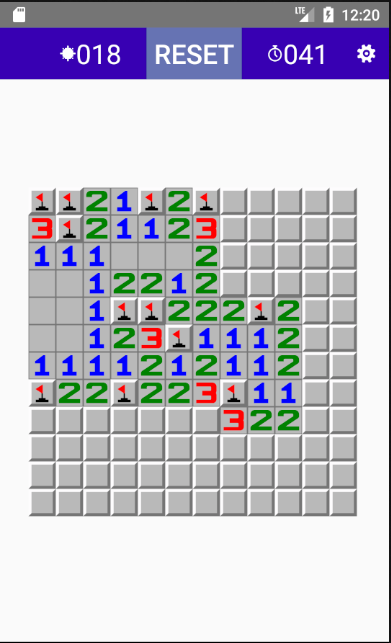
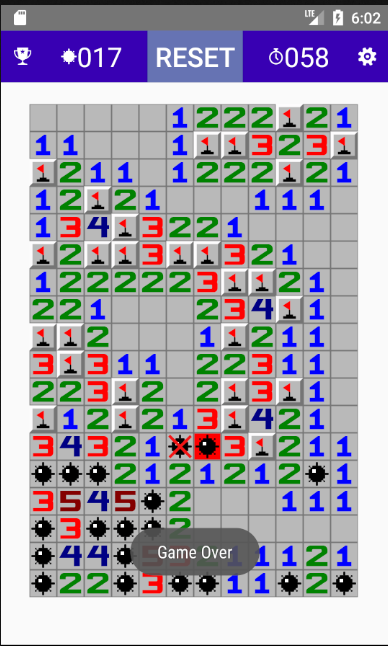
add high scores

diff --git a/app/src/main/java/com/github/mlee0967/minesweeper/MainActivity.java b/app/src/main/java/com/github/mlee0967/minesweeper/MainActivity.java
@@ -3,7 +3,9 @@ package com.github.mlee0967.minesweeper;
 import androidx.appcompat.app.AppCompatActivity;
 
 import android.app.AlertDialog;
+import android.content.Context;
 import android.content.DialogInterface;
+import android.content.SharedPreferences;
 import android.os.Bundle;
 import android.view.View;
 import android.widget.Button;
@@ -13,6 +15,9 @@ import com.github.mlee0967.minesweeper.game.views.Board;
 import com.github.mlee0967.minesweeper.game.Difficulty;
 import com.github.mlee0967.minesweeper.game.Game;
 import com.github.mlee0967.minesweeper.utils.Timer;
+
+import java.util.ArrayList;
+import java.util.List;
 
 public class MainActivity extends AppCompatActivity {
     @Override
@@ -35,6 +40,12 @@ public class MainActivity extends AppCompatActivity {
                 showDifficultySettingDialog();
             }
         });
+        recordButton = (Button) findViewById(R.id.recordButton);
+        recordButton.setOnClickListener(new View.OnClickListener() {
+            public void onClick(View v) {
+                showRecordDialog();
+            }
+        });
 
         Game.getInstance().initGame(this, minesLeftView);
         startGame();
@@ -50,11 +61,12 @@ public class MainActivity extends AppCompatActivity {
     }
 
     private void showDifficultySettingDialog(){
-        final String[] listItems = getResources().getStringArray(R.array.difficulty);
-
+        List<String> difficulties = new ArrayList<>();
+        for (Difficulty difficulty : Difficulty.values())
+            difficulties.add(difficulty.toString());
+        final String[] listItems = difficulties.toArray(new String[difficulties.size()]);
         AlertDialog.Builder builder = new AlertDialog.Builder(MainActivity.this);
         builder.setTitle("Choose difficulty");
-
         builder.setItems(listItems, new DialogInterface.OnClickListener() {
             @Override
             public void onClick(DialogInterface dialog, int idx) {
@@ -71,13 +83,40 @@ public class MainActivity extends AppCompatActivity {
             startGame();
             }
         });
+        builder.create().show();
+    }
 
-        AlertDialog dialog = builder.create();
-        dialog.show();
+    private void showRecordDialog(){
+        SharedPreferences prefs = getSharedPreferences(
+                getResources().getString(R.string.app_name), Context.MODE_PRIVATE);
+        StringBuilder sb = new StringBuilder();
+        for (Difficulty difficulty : Difficulty.values()){
+            sb.append(difficulty.toString());
+            sb.append(" : ");
+            int record = prefs.getInt(difficulty.toString(), -1);
+            if(record==-1)
+                sb.append("---");
+            else
+                sb.append(record);
+            sb.append("\n\n");
+        }
+
+        AlertDialog.Builder builder = new AlertDialog.Builder(MainActivity.this);
+        builder.setTitle("Records");
+        builder.setMessage(sb.toString());
+        builder.setCancelable(true);
+        builder.setNeutralButton("OK",
+                new DialogInterface.OnClickListener() {
+                    public void onClick(DialogInterface dialog, int id) {
+                        dialog.cancel();
+                    }
+                });
+        builder.create().show();
     }
 
     private TextView minesLeftView;
     private TextView timerView;
+    private Button recordButton;
     private Button resetButton;
     private Button settingButton;
     private Board boardView;

diff --git a/app/src/main/java/com/github/mlee0967/minesweeper/game/Game.java b/app/src/main/java/com/github/mlee0967/minesweeper/game/Game.java
@@ -1,11 +1,13 @@
 package com.github.mlee0967.minesweeper.game;
 
 import android.content.Context;
+import android.content.SharedPreferences;
 import android.widget.TextView;
 import android.widget.Toast;
 
 import com.github.mlee0967.minesweeper.utils.Timer;
 import com.github.mlee0967.minesweeper.game.views.Cell;
+import com.github.mlee0967.minesweeper.R;
 
 import java.util.Random;
 
@@ -41,12 +43,12 @@ public class Game {
             case INTERMEDIATE:
                 width = 12;
                 height = 12;
-                mines = 30;
+                mines = 22;
                 break;
             case EXPERT:
                 width = 12;
                 height = 18;
-                mines = 60;
+                mines = 45;
         }
     }
 
@@ -135,17 +137,33 @@ public class Game {
     private void endGame(boolean won){
         timer.cancel();
         gameOver = true;
-
-        if(won)
-            Toast.makeText(context,"Game Won", Toast.LENGTH_SHORT).show();
-        else
-            Toast.makeText(context,"Game lost", Toast.LENGTH_SHORT).show();
-
-        for(int r=0; r<height; ++r){
-            for(int c=0; c<width; ++c){
-                board[r][c].setRevealed();
+        if(won) {
+            Toast.makeText(context, "Game Won", Toast.LENGTH_SHORT).show();
+            if(updateBestTime())
+                Toast.makeText(context,
+                        "Congratulations!\nYou set a new record!",
+                        Toast.LENGTH_SHORT).show();
+        }else {
+            Toast.makeText(context, "Game Over", Toast.LENGTH_SHORT).show();
+            for(int r=0; r<height; ++r){
+                for(int c=0; c<width; ++c){
+                    board[r][c].setRevealed();
+                }
             }
         }
+    }
+
+    private boolean updateBestTime(){
+        SharedPreferences prefs = context.getSharedPreferences(
+            context.getString(R.string.app_name), Context.MODE_PRIVATE);
+        SharedPreferences.Editor editor = prefs.edit();
+        int bestTime = prefs.getInt(difficulty.toString(), -1);
+        if(bestTime==-1 || bestTime>timer.getTime()){
+            editor.putInt(difficulty.toString(), timer.getTime());
+            editor.commit();
+            return true;
+        }
+        return false;
     }
 
     private void reveal(int row, int col){

diff --git a/app/src/main/java/com/github/mlee0967/minesweeper/utils/Timer.java b/app/src/main/java/com/github/mlee0967/minesweeper/utils/Timer.java
@@ -12,8 +12,8 @@ public class Timer extends CountDownTimer {
 
     @Override
     public void onTick(long msUntilFinished) {
-        int second = (int) ((duration - msUntilFinished) / 1000);
-        timerView.setText(String.format("%03d", second));
+        time = (int) ((duration - msUntilFinished) / 1000);
+        timerView.setText(String.format("%03d", time));
     }
 
     @Override
@@ -21,9 +21,14 @@ public class Timer extends CountDownTimer {
         onTick(duration / 1000);
     }
 
+    public int getTime(){
+        return time;
+    }
+
     private static final long INTERVAL_MS = 1000;
     private static final long MAX_TIME = 1000000;
     private final long duration;
+    private int time;
     private TextView timerView;
 }
 

diff --git a/app/src/main/java/com/github/mlee0967/minesweeper/game/Difficulty.java b/app/src/main/java/com/github/mlee0967/minesweeper/game/Difficulty.java
@@ -1,3 +1,19 @@
 package com.github.mlee0967.minesweeper.game;
 
-public enum Difficulty{ BEGINNER, INTERMEDIATE, EXPERT };
+public enum Difficulty{
+    BEGINNER{
+        public String toString(){
+            return "Beginner";
+        }
+    },
+    INTERMEDIATE{
+        public String toString(){
+            return "Intermediate";
+        }
+    },
+    EXPERT{
+        public String toString(){
+            return "Expert";
+        }
+    },
+};
